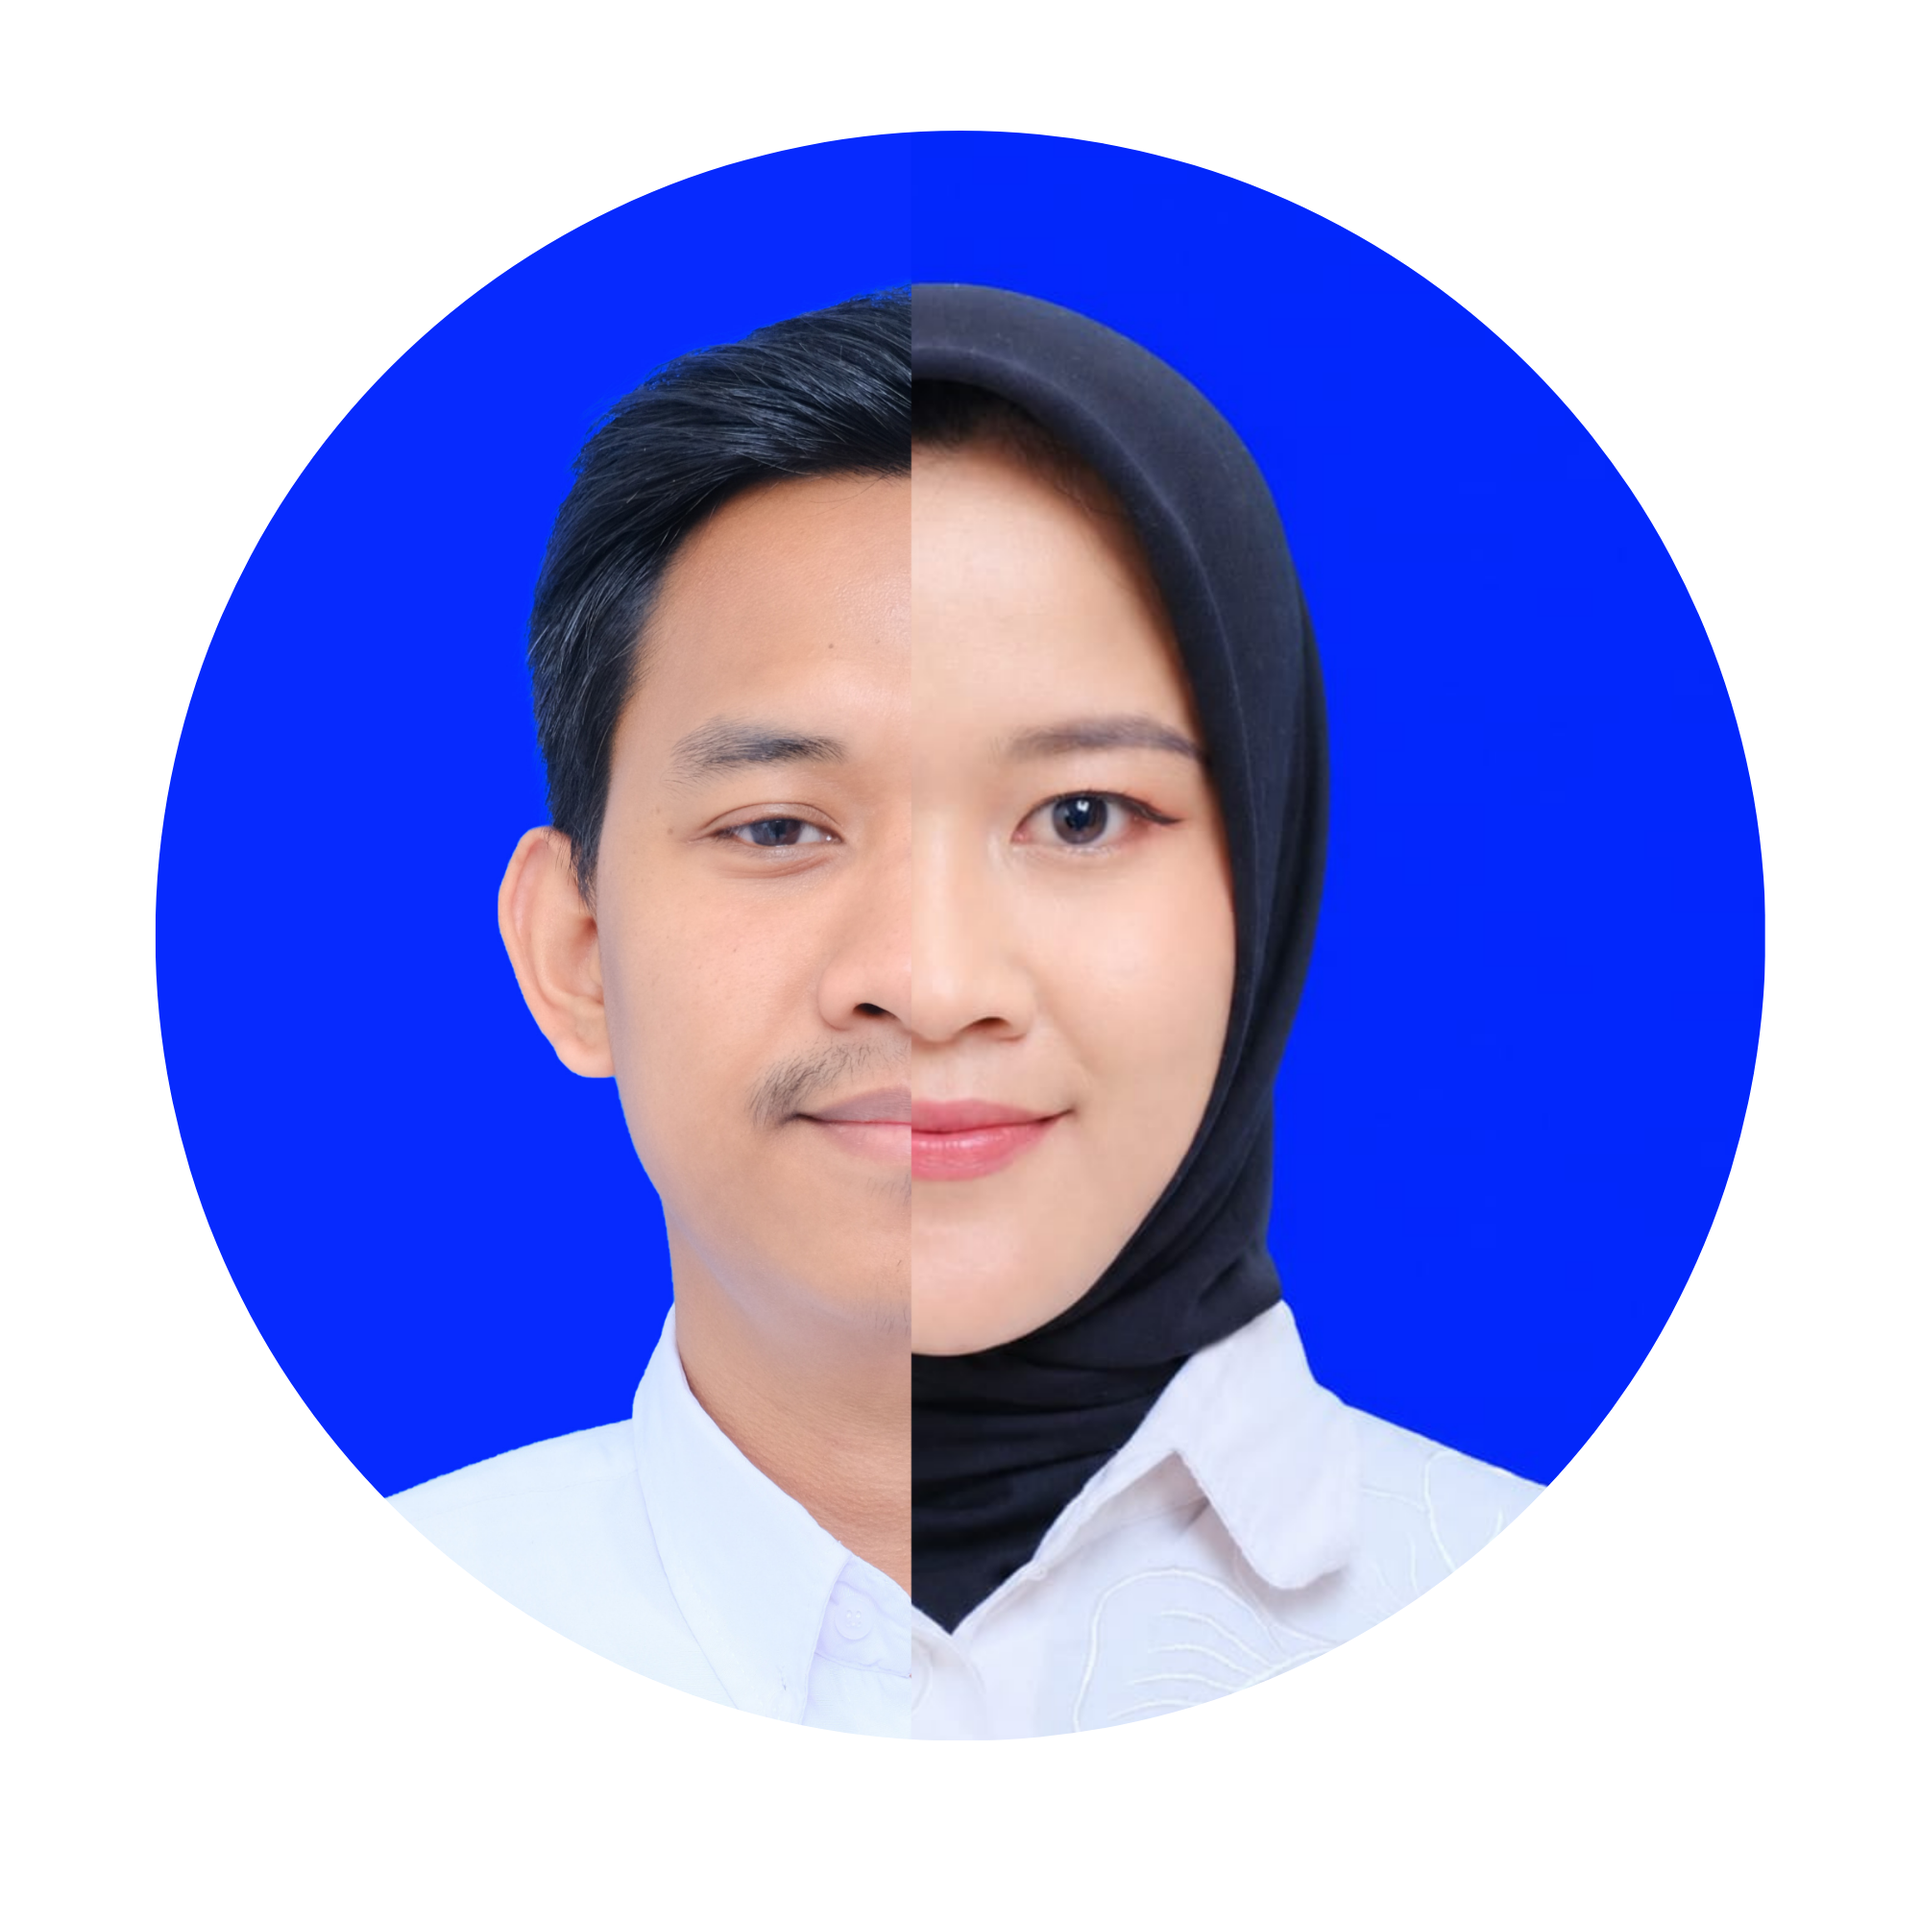
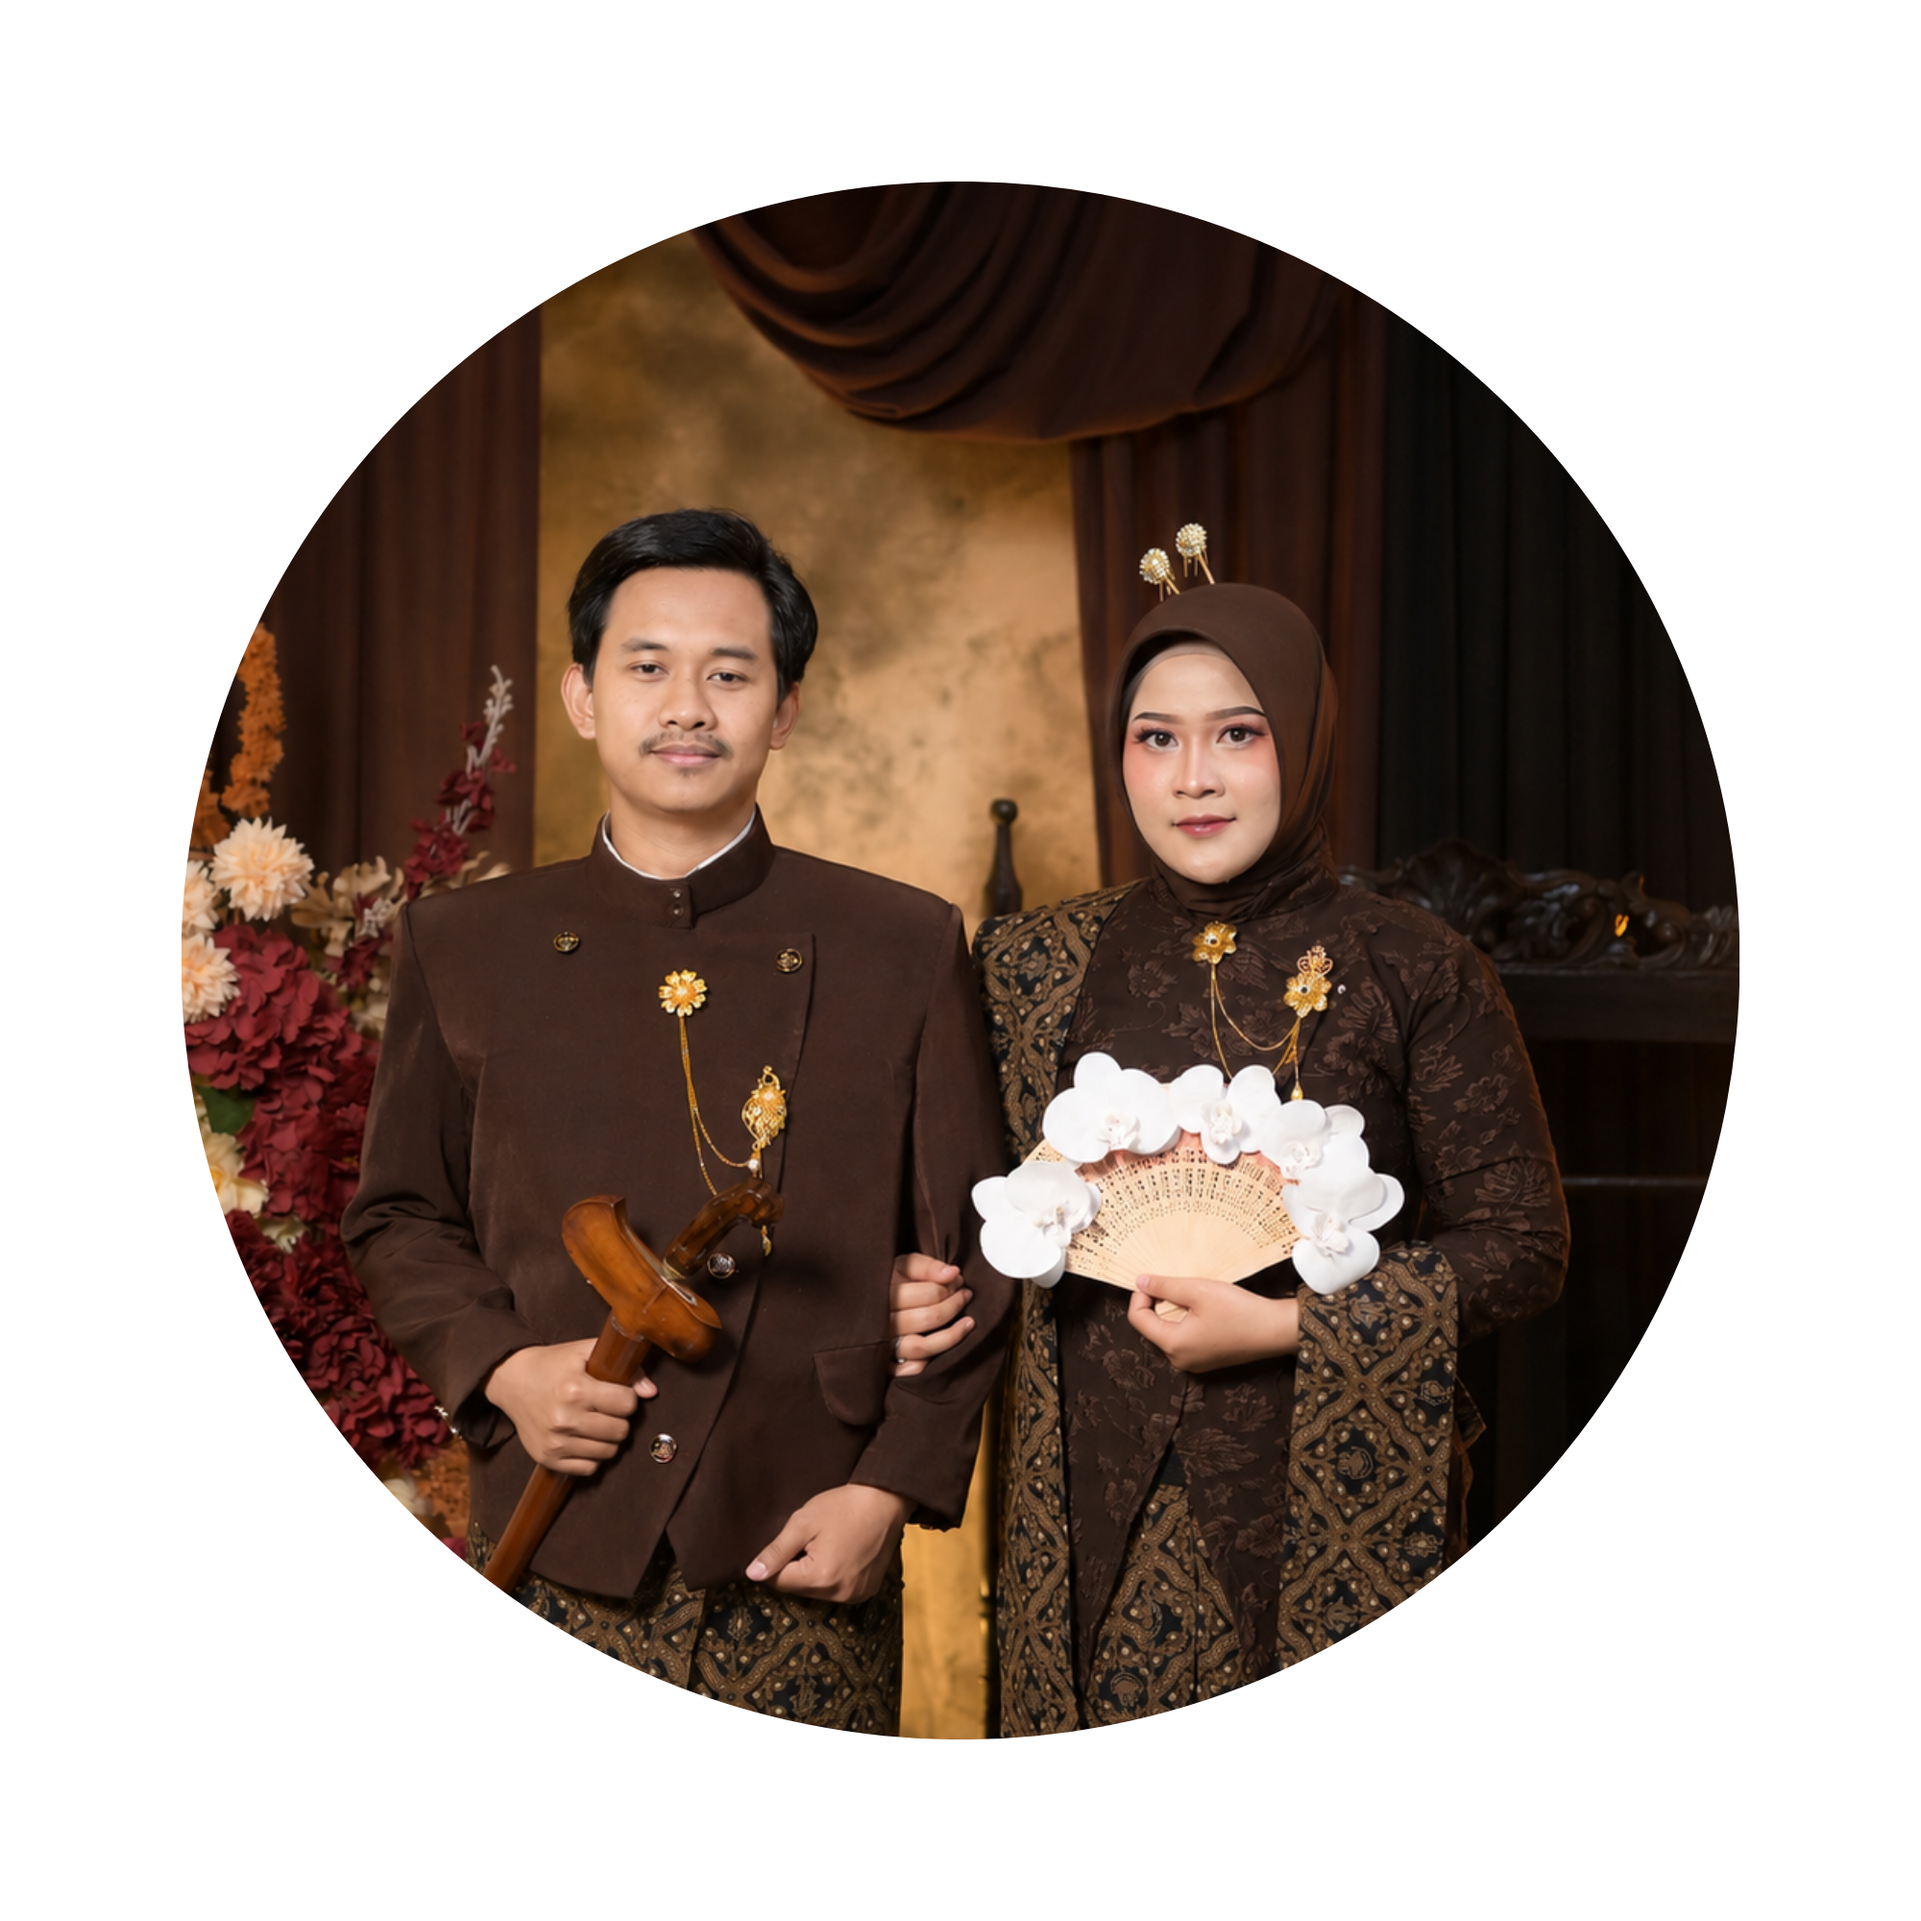
chore: update love story and some photos

diff --git a/src/components/LoveStory.vue b/src/components/LoveStory.vue
@@ -12,31 +12,19 @@ const stories: Story[] = [
     date: 'SMP — 2018',
     title: 'Pertama Menjalin Kisah',
     description:
-      'Dua remaja yang belum menyadari bahwa pertemuan sederhana di bangku SMP itu akan menjadi awal dari kisah panjang yang penuh cerita.',
-  },
-  {
-    date: '2018 — 2023',
-    title: 'Menjalani LDR',
-    description:
-      'Belum genap enam bulan bersama, kami harus terpisah oleh jarak demi pendidikan. Lima tahun menjalani LDR dengan komunikasi yang terbatas mengajarkan kami arti kesabaran, kepercayaan, dan keyakinan bahwa cinta yang dijaga dengan baik akan menemukan jalannya.',
-  },
-  {
-    date: '2023',
-    title: 'Kembali Dekat',
-    description:
-      'Setelah bertahun-tahun dipisahkan jarak, akhirnya kami tidak lagi menjalani LDR. Momen ini menjadi awal baru bagi kami untuk saling mengenal lebih dalam, tumbuh bersama, dan semakin yakin bahwa kami adalah rumah bagi satu sama lain.',
+      'Perjalanan kami dimulai sejak masa SMP, saat pertama kali dipertemukan sebagai dua remaja yang belum menyadari bahwa pertemuan sederhana itu akan menjadi awal dari kisah panjang yang penuh cerita.\nWaktu terus berjalan, kami tumbuh, belajar, dan melewati berbagai fase kehidupan bersama. Dari sekadar teman, menjadi tempat pulang satu sama lain, hingga akhirnya yakin bahwa cinta ini layak diperjuangkan.',
   },
   {
     date: '20 September 2025',
     title: 'Bertunangan',
     description:
-      'Melangkah ke tahap yang lebih serius sebagai tanda bahwa kami siap menata masa depan bersama.',
+      'dengan penuh rasa syukur dan kebahagiaan, kami melangkah ke tahap yang lebih serius melalui sebuah pertunangan. Momen itu menjadi simbol dari keyakinan kami untuk saling memilih, saling menjaga, dan berkomitmen dalam menata masa depan bersama. Di hadapan keluarga serta orang-orang terkasih, kami mengikat niat dan harapan, sebagai langkah awal menuju perjalanan hidup yang akan kami jalani berdua.',
   },
   {
     date: '5 Juli 2026',
     title: 'Pernikahan',
     description:
-      'Mengikat janji suci, memulai babak baru sebagai pasangan hidup yang insyaAllah selalu dalam ridha dan keberkahan-Nya.',
+      'perjalanan yang telah kami rajut selama bertahun-tahun akan bermuara pada sebuah ikatan suci pernikahan. Hari yang kami nantikan bukan hanya menjadi perayaan cinta, tetapi juga awal dari babak kehidupan yang baru, tempat kami akan saling menggenggam dalam suka maupun duka, bertumbuh bersama, serta membangun rumah tangga yang dipenuhi cinta, ketulusan, dan keberkahan dalam setiap langkahnya.',
   },
 ]
 </script>
@@ -109,26 +97,7 @@ const stories: Story[] = [
             oleh-Nya.&rdquo;
           </p>
         </div>
-
-        <div class="mt-6 font-body text-sm sm:text-base text-(--muted) leading-[1.9] px-1">
-          <p>
-            Perjalanan kami dimulai sejak masa SMP, saat pertama kali dipertemukan sebagai dua
-            remaja yang belum menyadari bahwa pertemuan sederhana itu akan menjadi awal dari kisah
-            panjang yang penuh cerita.
-          </p>
-          <p class="mt-4">
-            Belum genap enam bulan menjalin hubungan, kami harus menghadapi ujian pertama: jarak.
-            Demi pendidikan dan masa depan, kami menjalani hubungan jarak jauh (LDR). Masa itu
-            bukanlah hal yang mudah. Komunikasi sangat terbatas, pertemuan menjadi sesuatu yang
-            sangat berharga, dan rindu harus disimpan dalam doa serta harapan.
-          </p>
-          <p class="mt-4">
-            Namun, justru dari keterbatasan itulah kami belajar tentang kesabaran, kepercayaan, dan
-            arti memperjuangkan seseorang.
-          </p>
-        </div>
-
-        <div class="mt-6 flex items-center justify-center gap-2">
+        <div class="flex items-center justify-center gap-2">
           <span
             class="h-px flex-1 max-w-8 bg-gradient-to-r from-transparent via-(--gold)/30 to-transparent"
           ></span>
@@ -194,9 +163,8 @@ const stories: Story[] = [
 
         <div class="mt-6 text-center px-2">
           <p class="font-body text-sm sm:text-base italic leading-[1.8] text-(--muted)">
-            &ldquo;Jarak pernah memisahkan langkah kami, tetapi tidak pernah memisahkan doa dan
-            harapan kami. Dari bangku SMP, melewati lima tahun LDR, hingga akhirnya dipersatukan
-            dalam ikatan suci. Semoga cinta ini selalu tumbuh dalam ridha dan keberkahan-Nya.&rdquo;
+            &ldquo;Dari bangku SMP hingga pelaminan, semoga cinta ini selalu tumbuh dalam ridha dan
+            keberkahan-Nya.&rdquo;
           </p>
           <p class="mt-4 font-title text-base sm:text-lg text-(--gold) tracking-[0.08em]">
             Icha & Didin

diff --git a/src/App.vue b/src/App.vue
@@ -363,7 +363,7 @@ watch(isInvitationOpen, (open) => {
       class="fixed inset-0 z-40 flex items-center justify-center bg-[color-mix(in_srgb,var(--bg-soft)_78%,white)] px-5"
     >
       <div
-        class="fade-up relative w-full max-w-sm rounded-4xl border border-(--line) bg-(--card)/90 px-6 py-8 text-center shadow-[0_18px_60px_rgba(42,33,25,0.2)] backdrop-blur"
+        class="fade-up relative w-full max-w-lg rounded-4xl border border-(--line) bg-(--card)/90 px-8 py-10 text-center shadow-[0_18px_60px_rgba(42,33,25,0.2)] backdrop-blur sm:px-12"
       >
         <FlowerDecor
           class="card-top-right"
@@ -396,7 +396,20 @@ watch(isInvitationOpen, (open) => {
           </svg>
           <span class="h-px w-8 bg-(--gold)/40"></span>
         </div>
-        <p class="mt-4 font-title text-[11px] uppercase tracking-[0.24em] text-(--gold)">
+        <div class="mt-5 flex justify-center">
+          <div class="w-56 sm:w-72">
+            <div class="overflow-hidden rounded-2xl border-2 border-(--gold)/40 shadow-lg">
+              <img
+                src="/home-photo.png"
+                alt="Icha & Didin"
+                class="aspect-[4/3] w-full object-cover"
+                loading="lazy"
+              />
+            </div>
+          </div>
+        </div>
+
+        <p class="mt-5 font-title text-[11px] uppercase tracking-[0.24em] text-(--gold)">
           Kepada Yth.
         </p>
         <p class="mt-2 font-body text-2xl font-semibold">{{ invitedName }}</p>
@@ -640,7 +653,7 @@ watch(isInvitationOpen, (open) => {
               opacity="0.7"
             />
           </svg>
-          {{ isMusicOn ? 'Audio ON' : 'Audio OFF' }}
+          {{ isMusicOn ? 'Audio OFF' : 'Audio ON' }}
         </button>
       </div>
     </nav>
@@ -786,7 +799,7 @@ watch(isInvitationOpen, (open) => {
               opacity="0.7"
             />
           </svg>
-          <span>{{ isMusicOn ? 'Audio ON' : 'Audio OFF' }}</span>
+          <span>{{ isMusicOn ? 'Audio OFF' : 'Audio ON' }}</span>
         </button>
       </div>
     </div>

diff --git a/src/components/Profiles.vue b/src/components/Profiles.vue
@@ -45,7 +45,11 @@ defineProps<{ bride?: any; groom?: any }>()
             <div
               class="w-32 h-32 sm:w-36 sm:h-36 md:w-44 md:h-44 overflow-hidden rounded-full ring-2 ring-(--gold)/20 shadow-lg mx-auto"
             >
-              <img src="/mempelai/icha.jpeg" alt="Icha" class="h-full w-full object-cover" />
+              <img
+                src="/mempelai/icha.JPG"
+                alt="Icha"
+                class="h-full w-full object-cover rotate-15"
+              />
             </div>
             <div
               class="absolute -bottom-1 left-1/2 -translate-x-1/2 bg-(--gold) text-white text-[10px] uppercase tracking-[0.15em] px-3 py-0.5 rounded-full font-body font-semibold whitespace-nowrap"
@@ -104,7 +108,7 @@ defineProps<{ bride?: any; groom?: any }>()
             <div
               class="w-32 h-32 sm:w-36 sm:h-36 md:w-44 md:h-44 overflow-hidden rounded-full ring-2 ring-(--gold)/20 shadow-lg mx-auto"
             >
-              <img src="/mempelai/didin.jpg" alt="Didin" class="h-full w-full object-cover" />
+              <img src="/mempelai/didin.png" alt="Didin" class="h-full w-full object-cover" />
             </div>
             <div
               class="absolute -bottom-1 left-1/2 -translate-x-1/2 bg-(--gold) text-white text-[10px] uppercase tracking-[0.15em] px-3 py-0.5 rounded-full font-body font-semibold whitespace-nowrap"

diff --git a/src/components/FooterSection.vue b/src/components/FooterSection.vue
@@ -36,7 +36,7 @@ import FlowerDecor from './FlowerDecor.vue'
       ></div>
 
       <div
-        class="mx-auto mb-4 h-24 w-24 sm:h-28 sm:w-28 rounded-full ring-2 ring-(--gold)/20 shadow-lg overflow-hidden"
+        class="mx-auto mb-4 h-24 w-24 sm:h-40 sm:w-40 rounded-full ring-2 ring-(--gold)/20 shadow-lg overflow-hidden"
       >
         <img src="/foto-2-mempelai.gif" alt="couple" class="h-full w-full object-cover" />
       </div>
